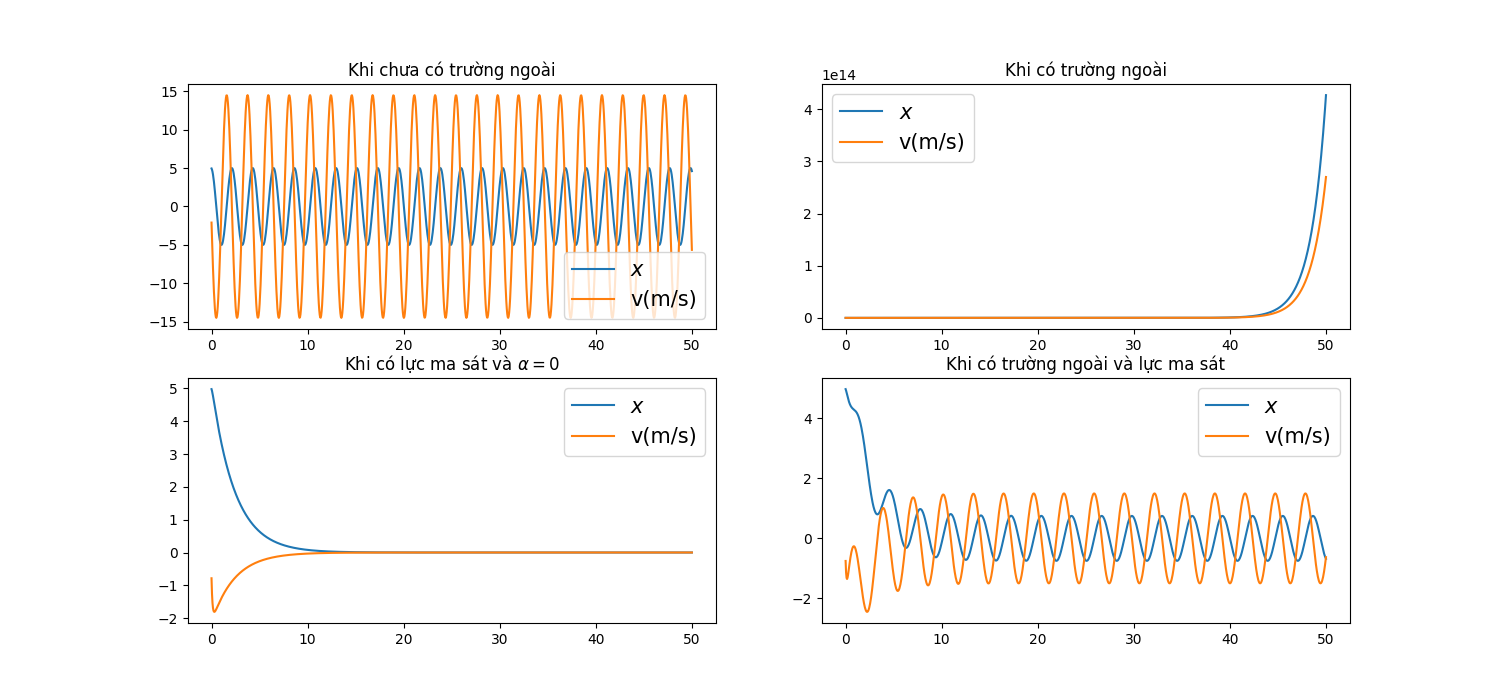
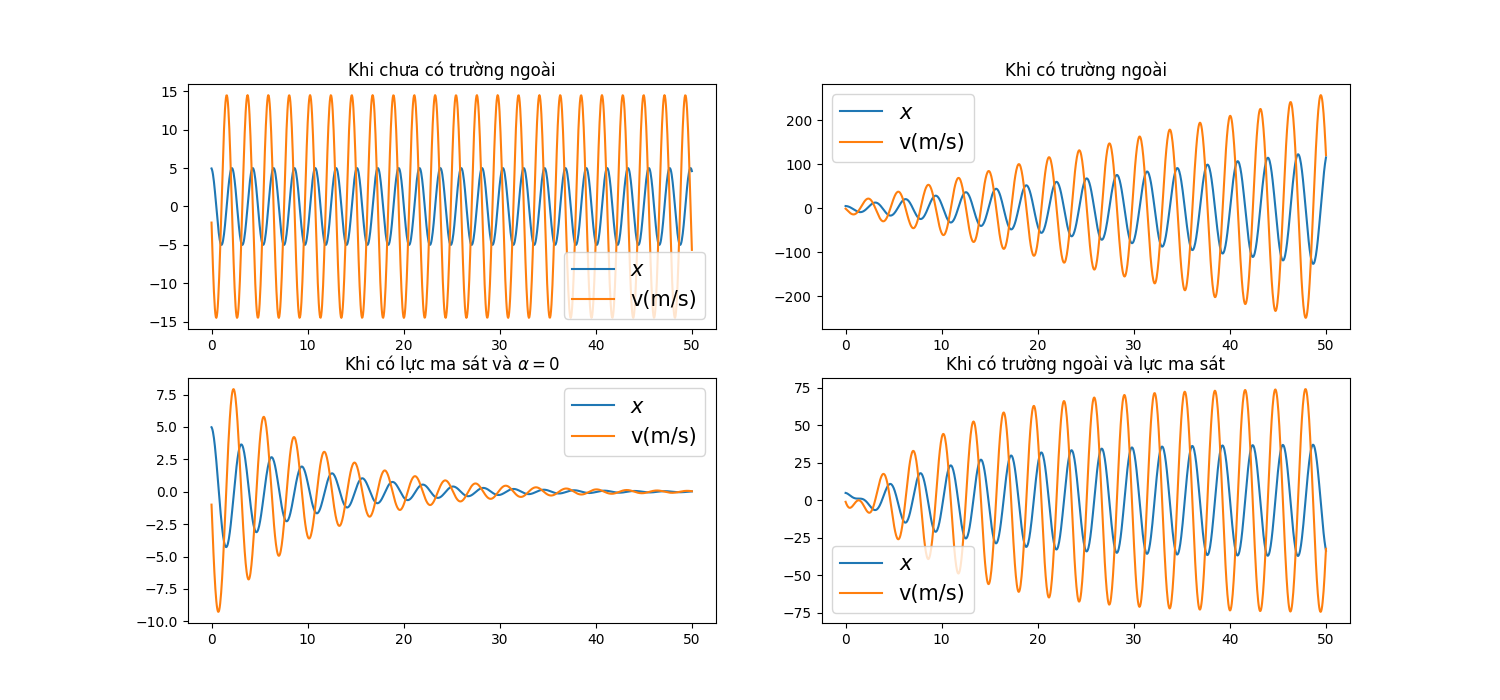
update buoi 6

diff --git a/buoi_6_2410/nonlinearOSC.py b/buoi_6_2410/nonlinearOSC.py
@@ -1,17 +1,17 @@
 import numpy as np
-from numpy import typing as npt, pi, sqrt, sin
+from numpy import sqrt, sin
 import matplotlib.pyplot as plt
 import csv
-
+import subprocess
 
 alphax = 1.1
 k = 2
 m = 0.5
 omega0 = sqrt(k / m)
-b = 10 * m * omega0
+b = 1.5 * m * omega0
 
 
-def FArr(t: npt.NDArray, initInput: npt.NDArray) -> npt.NDArray:
+def FArr(t, initInput):
     x, velocity = initInput
 
     F = np.zeros(2)
@@ -22,20 +22,20 @@ def FArr(t: npt.NDArray, initInput: npt.NDArray) -> npt.NDArray:
     return F
 
 
-def FArrExt(t: npt.NDArray, initInput: npt.NDArray) -> npt.NDArray:
+def FArrExt(t, initInput):
     x, velocity = initInput
 
     F = np.zeros(2)
 
-    F_Ext = 15 * sin(omega0 * t)
+    F_Ext = 5 * sin(omega0 * t)
 
     F[0] = velocity
-    F[1] = -(k * x - k * x * alphax) / m + F_Ext
+    F[1] = -(k * x - k * x * alphax * 0 + F_Ext) / m
 
     return F
 
 
-def FArrVis(t: npt.NDArray, initInput: npt.NDArray) -> npt.NDArray:
+def FArrVis(t, initInput):
     x, velocity = initInput
 
     F = np.zeros(2)
@@ -48,7 +48,7 @@ def FArrVis(t: npt.NDArray, initInput: npt.NDArray) -> npt.NDArray:
     return F
 
 
-def FArrExtVis(t: npt.NDArray, initInput: npt.NDArray) -> npt.NDArray:
+def FArrExtVis(t, initInput):
     x, velocity = initInput
 
     F = np.zeros(2)
@@ -62,7 +62,7 @@ def FArrExtVis(t: npt.NDArray, initInput: npt.NDArray) -> npt.NDArray:
     return F
 
 
-def rk4(fArr: npt.NDArray, tn: npt.NDArray, yn: npt.NDArray, h: float) -> npt.NDArray:
+def rk4(fArr, tn, yn, h):
 
     k1 = fArr(tn, yn)
     k2 = fArr(tn + 0.5 * h, yn + 0.5 * h * k1)
@@ -71,23 +71,7 @@ def rk4(fArr: npt.NDArray, tn: npt.NDArray, yn: npt.NDArray, h: float) -> npt.ND
     return yn + h / 6 * (k1 + 2 * k2 + 2 * k3 + k4)
 
 
-def savelog(file: str, N: int, solution: npt.NDArray):
-    with open(file, "w", newline="") as writefile:
-        header = ["n", "x", "velocity"]
-        writer = csv.DictWriter(writefile, fieldnames=header)
-        writer.writeheader()
-        for i in range(N):
-            writer.writerow({"n": i, "x": solution[i][0], "velocity": solution[i][1]})
-
-
-def plot(
-    file: str,
-    t: npt.NDArray,
-    solutionWOExtField: npt.NDArray,
-    solutionWExtField: npt.NDArray,
-    solutionWVis: npt.NDArray,
-    solutionWExtFieldVis: npt.NDArray,
-):
+def plot(file, fileWrite, t, solutionWOExtField, solutionWExtField, solutionWVis, solutionWExtFieldVis, N):
     x = {"xWOExtField": [], "xWExtField": [], "xWVis": [], "xWExtFieldVis": []}
 
     velocity = {"vWOExtField": [], "vWExtField": [], "vWVis": [], "vWExtFieldVis": []}
@@ -104,6 +88,21 @@ def plot(
 
         x["xWExtFieldVis"].append(solutionWExtFieldVis[n][0])
         velocity["vWExtFieldVis"].append(solutionWExtFieldVis[n][1])
+
+    with open(fileWrite, "w", newline="") as writefile:
+        header = ["n", "xWOExtField", "xWExtField", "xWVis", "xWExtFieldVis"]
+        writer = csv.DictWriter(writefile, fieldnames=header)
+        writer.writeheader()
+        for i in range(N):
+            writer.writerow(
+                {
+                    "n": i,
+                    "xWOExtField": x["xWOExtField"][i],
+                    "xWExtField": x["xWExtField"][i],
+                    "xWVis": x["xWVis"][i],
+                    "xWExtFieldVis": x["xWExtFieldVis"][i],
+                }
+            )
 
     fig, ax = plt.subplots(2, 2, figsize=(15, 7))
     ax[0][0].plot(t, x["xWOExtField"])
@@ -130,10 +129,10 @@ def plot(
     plt.show()
 
 
-def solve(F: npt.NDArray, N: int, t0: float, t1: float, h: float, solver: npt.NDArray) -> npt.NDArray:
+def solve(F, N, t0, t1, h, solver):
 
     initInput = np.zeros(2)
-    initInput[0] = 5  # Điều kiện đầu cho tại x = 1 so với vị trí cân bằng là x = 0
+    initInput[0] = 5  # Điều kiện đầu cho  vật tại x = 1 so với vị trí cân bằng là x = 0
     initInput[1] = 0  # Điều kiện đầu cho vật tại x = 1 là lúc thả tay ra thì v = 0
 
     t = np.linspace(t0, t1, N)
@@ -144,6 +143,36 @@ def solve(F: npt.NDArray, N: int, t0: float, t1: float, h: float, solver: npt.ND
         solution.append(initInput)
 
     return t, solution
+
+
+def gnuPlot(file):
+    with open("gnuPlot.gp", "w") as gnuplot:
+        gnuplot.write(
+            f"""
+    set ylabel "y"
+    set xlabel "x"
+    set zlabel "z"
+
+
+    set grid
+    set key horiz
+
+    set datafile separator ","
+    
+
+    plot "{file}" u 1:2 with lines tit "không có trường ngoài và ma sát",\
+        "{file}" u 1:3 with lines tit "có trường ngoài và không có ma sát",\
+        "{file}" u 1:4 with lines tit "không có trường ngoài và có ma sát",\
+        "{file}" u 1:5 with lines tit "có trường ngoài và ma sát"
+
+
+    unset multiplot
+
+    pause -1
+
+"""
+        )
+    subprocess.run(["gnuplot", "gnuPlot.gp"])
 
 
 def main():
@@ -158,9 +187,8 @@ def main():
     t, solutionWVis = solve(FArrVis, N, t0, t1, h, rk4)
     t, solutionWExtFieldVis = solve(FArrExtVis, N, t0, t1, h, rk4)
 
-    plot(filePlot, t, solutionWOExtField, solutionWExtField, solutionWVis, solutionWExtFieldVis)
-
-    savelog(fileWrite, N, solutionWOExtField)
+    # plot(filePlot, fileWrite, t, solutionWOExtField, solutionWExtField, solutionWVis, solutionWExtFieldVis, N)
+    gnuPlot(fileWrite)
 
 
 if __name__ == "__main__":
